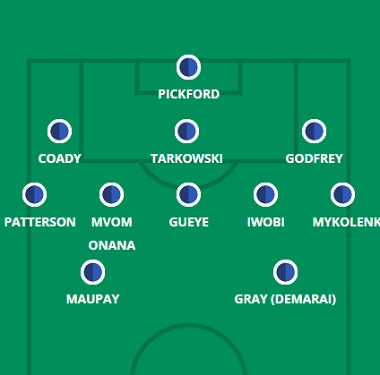
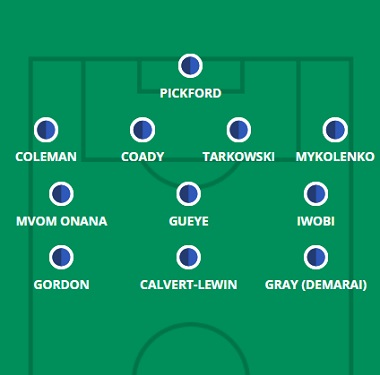
20-20

diff --git a/city.html b/city.html
@@ -63,15 +63,15 @@
     <hgroup>
         <h1> Provável Escalação</h1>
         <h2 class="direita"> por FabioVascão </h2>
-        <h3 class="direita"> Atualizado em 30/Novembro/2022 </h3>
+        <h3 class="direita"> Atualizado em 13/Janeiro/2023 </h3>
     </hgroup>
 
     <div class="selecao"><p><b><img src="images/logos/manchester-city.png" width="100rem" height="100rem"/> Manchester City</b></p></div>
        
     <div class="escalacao">
         <div class="topo">
-            <h2 class="titulo">Ultimas Notícias</h2> <h4><p> Ruben Dias (coxa) deve ficar de fora, enquanto Julian Alvarez não voltará a treinar até o Ano Novo, após os esforços no Catar. Apenas 65 horas separam em tempo integral a vitória sobre o Leeds e o pontapé inicial contra o Everton, para que possamos ter uma vaga de rotação sazonal no Etihad na véspera de Ano Novo. Phil Foden e João Cancelo voltaram ao jogo com aparições no segundo tempo em Elland Road, e podem voltar ao XI titular aqui; Guardiola disse no meio da semana que Jack Grealish e Riyad Mahrez foram parcialmente selecionados nos flancos (à frente de Foden) para controlar o ritmo do que poderia ser uma partida de basquete contra um time de Leeds de alto ritmo - uma tática que ele já usou antes em tais jogos, e Everton em casa não é um deles. Resta saber se Kyle Walker está pronto para o jogo depois de não ter saído do banco nem na liga nem na copa desde a Copa do Mundo, enquanto outro dos incansáveis incansáveis de Guardiola, Bernardo Silva, tem apenas alguns minutos para seu nome desde que Portugal saiu do Qatar 2022. John Stones pode passar para lateral-direito se Walker não estiver pronto para a ação doméstica desde o início, mas apenas para aumentar a imprevisibilidade absoluta na defesa (nem sequer mencionamos Manuel Akanji , Nathan Ake ou Aymeric Laporte ainda), o jovem Rico Lewis começou os últimos dois jogos na defesa e recebeu muitos elogios de seu técnico. Dado os tempos de retorno acentuados, não podemos nem dizer com certeza absoluta que Erling Haaland e/ou Kevin De Bruyne não conseguirão administrar minutos de alguma variedade, com Ederson sendo o único nome acertado para este.</p></h4><br>
-            <h4><strong>Dúvidas:</strong> Alvarez e Dias.</h4>
+            <h2 class="titulo">Ultimas Notícias</h2> <h4><p> John Stones não participará do derby de Manchester graças à lesão misteriosa que o manteve fora da derrota da EFL Cup para o Southampton, enquanto resta saber se a sugestão de Pep Guardiola de que "todo mundo está em forma" cobre Ruben Dias ( isquiotibiais) após sua recente ausência. A falta de Stones e (presumivelmente) Dias torna a imagem ao fundo um pouco menos nublada, embora ainda haja muito em aberto para interpretação. De alguma forma, chegamos a uma situação que, fora Sergio Gomez, o até então acertado João Cancelo parece ser o menos provável dos zagueiros disponíveis para começar em Old Trafford; A recente forma de Nathan Ake como lateral-esquerdo foi elogiada por Guardiola recentemente, enquanto Cancelo luta por minutos. O resto da composição defensiva pode depender se Guardiola quer o ritmo de Kyle Walker no lugar para lidar com a velocidade de Marcus Rashford et al e quão alta estima ele tem por Rico Lewis após recentes atuações louváveis. Os dois poderiam ser facilmente unidos na mesma escalação, no entanto, com Walker formando mais um 'três' ao lado de Manuel Akanji, Nathan Ake e / ou Aymeric Laporte e Lewis empurrado para um meio-campo dois ao lado de Rodri. Erling Haaland, Kevin De Bruyne e o já mencionado Rodri parecem tão perfeitos quanto possível na escalação do patrão do City, enquanto a lógica ditaria que Riyad Mahrez e Jack Grealish mantenham suas camisas abertas: eles não são apenas os homens 'em forma' pelos flancos, mas frequentemente aparecem a par quando Guardiola quer abrandar um jogo que ameaça tornar-se num jogo de basquetebol, algo que pode acontecer facilmente frente a um United que tem feito mais golos no contra-ataque do que qualquer outro time em 2022/23. Vale a pena notar, no entanto, que Phil Foden fez um hat-trick do flanco direito contra o City no outono e Bernardo Silva já foi usado nessa posição antes em partidas dessa magnitude.</p></h4><br>
+            <h4><strong>Dúvidas:</strong> Stones e Dias.</h4>
         </div>
         <aside>
             <figure>

diff --git a/chelsea.html b/chelsea.html
@@ -63,15 +63,15 @@
     <hgroup>
         <h1> Provável Escalação</h1>
         <h2 class="direita"> por FabioVascão </h2>
-        <h3 class="direita"> Atualizado em 30/Novembro/2022 </h3>
+        <h3 class="direita"> Atualizado em 13/Janeiro/2023 </h3>
     </hgroup>
 
     <div class="selecao"><p><b><img src="images/logos/chelsea.png" width="100rem" height="100rem"/> Chelsea</b></p></div>
        
     <div class="escalacao">
         <div class="topo">
-            <h2 class="titulo">Ultimas Notícias</h2> <h4><p> Reece James (joelho) juntou-se a Armando Broja (ACL), N'Golo Kante (coxa) e Wesley Fofana (joelho) na lista de lesões do Chelsea, enquanto permanece a dúvida sobre a disponibilidade de Ruben Loftus-Cheek (panturrilha) e Ben Chilwell ( isquiotibiais): embora a dupla tenha sido avistada no campo de treinamento no meio da semana, eles ficaram fora dos gramados por quase dois meses e não terão condições físicas para o jogo, mesmo que agora estejam livres de lesões. Dois jogadores que podem voltar à disputa são Hakim Ziyech e Mateo Kovacic, que receberam uma pausa pós-Copa do Mundo de Graham Potter após suas corridas para o play-off do terceiro lugar, mas que agora estão de volta à grama em Cobham. Todos nós sabemos o quanto Potter adora mexer com seu time: na última semana de três jogos na Premier League, apenas quatro jogadores de linha começaram cada partida. Mas os Blues enfrentaram uma reviravolta brutal de domingo-quarta-sábado nas semanas de jogo 11-13, e desta vez eles receberam uma programação muito mais generosa de terça-domingo-quinta-feira, com muito tempo de recuperação antes do confronto com o Manchester City. na Gameweek 19. As mudanças podem ser menos aqui do que após a vitória convincente sobre o Bournemouth, com jogadores como Pierre-Emerick Aubameyang, Conor Gallagher e Trevoh Chalobah esperando que não seja o caso. Potter será forçado a pelo menos uma alteração, sendo Cesar Azpilicueta o favorito para substituir o lesionado James na lateral-direita. </p></h4><br>
-            <h4><strong>Dúvidas:</strong> Broja, Chilwell, Fofana, James (Reece), Kanté e Loftus-Cheek. </h4>
+            <h2 class="titulo">Ultimas Notícias</h2> <h4><p> Denis Zakaria será avaliado após contrair um problema na quinta-feira e pode se juntar a uma lista de lesões que inclui Armando Broja (ACL), Christian Pulisic (joelho), Raheem Sterling (coxa), Edouard Mendy (dedo) e Wesley Fofana (joelho) . Reece James (joelho), Ruben Loftus-Cheek (panturrilha), N'Golo Kante (coxa) e Ben Chilwell (coxa) estão em vários estágios em seus retornos aos treinos, entretanto, mas não estiveram disponíveis para a derrota no Fulham , seria uma surpresa ver algum deles considerado para um jogo menos de 72 horas depois. Nunca chove, mas chove para Graham Potter, com o estreante João Felix também indisponível depois de ter sido expulso por jogo sujo grave em Craven Cottage. Carney Chukwuemeka e Conor Gallagher podem jogar contra o Palace com todos os problemas listados acima, enquanto Hakim Ziyech, Marc Cucurella e um Pierre-Emerick Aubameyang pouco usado (que Potter explicou ter se machucado recentemente) também podem retornar para o mínimo de duas vagas em disputa. A vaga de Trevoh Chalobah pode estar em risco após um desempenho vacilante contra o Fulham, com Cucurella e o novo garoto Benoit Badiashile como possíveis substitutos. </p></h4><br>
+            <h4><strong>Dúvidas:</strong> Broja, Chilwell, Fofana, James (Reece), Kanté, Loftus-Cheek, Mendy (Edouard), Pulisic, Sterling, Zakaria e João Felix. </h4>
         </div>
         <aside>
             <figure>

diff --git a/palace.html b/palace.html
@@ -63,15 +63,15 @@
     <hgroup>
         <h1> Provável Escalação</h1>
         <h2 class="direita"> por FabioVascão </h2>
-        <h3 class="direita"> Atualizado em 30/Novembro/2022 </h3>
+        <h3 class="direita"> Atualizado em 13/Janeiro/2023 </h3>
     </hgroup>
 
     <div class="selecao"><p><b><img src="images/logos/crystal-palace.png" width="100rem" height="100rem"/> Crystal Palace</b></p></div>
        
     <div class="escalacao">
         <div class="topo">
-            <h2 class="titulo">Ultimas Notícias</h2> <h4><p> Patrick Vieira deu seu briefing pré-Rodada 18 após a derrota no Boxing Day para o Fulham e ainda não ouvimos as citações embargadas daquela entrevista para nos atualizar sobre as últimas notícias da equipe. Sabemos que Tyrick Mitchell e James Tomkins estarão suspensos, enquanto James McArthur (virilha) e Nathan Ferguson (condição física) devem permanecer na lista de lesionados até janeiro. Jean-Phillipe Mateta também não fez parte do elenco da rodada contra os Cottagers, tendo também perdido os dois últimos amistosos do meio da temporada. Marc Guehi pelo menos retorna de sua própria suspensão de um jogo para este jogo e substituirá Tomkins como zagueiro, enquanto Joel Ward espera entrar no lugar de Mitchell como zagueiro - embora Jeffrey Schlupp, Jairo Riedewald e talvez Chris Richards sejam também possibilidades nessa posição. Os pouco usados Will Hughes e Luka Milivojevic esperam obter mais atenção após o show de terror no Boxing Day, enquanto Odsonne Edouard certamente volta ao pensamento depois que os Eagles não conseguiram registrar um único chute no alvo antes mesmo de sua redução a nove homens.</p></h4><br>
-            <h4><strong>Dúvidas:</strong> Ferguson (Nathan), Johnstone, McArthur, Mitchell e Tomkins.</h4>
+            <h2 class="titulo">Ultimas Notícias</h2> <h4><p> Não parece haver novas preocupações com lesões para o Crystal Palace, com Patrick Vieira dizendo que “todo mundo do último jogo treinou a semana toda”. Os Eagles sentirão novamente a falta de James McArthur (virilha) e Nathan Ferguson (condição física), ambos ausentes há muito tempo, mas Tyrick Mitchell está de volta após uma suspensão de três jogos após sua expulsão no Boxing Day e deve retornar ao time titular. XI, potencialmente substituindo Joel Ward na lateral-esquerda. Mais à frente, há muito mais debate a ser feito com Cheick Doucoure frequentemente exposto na sala de máquinas e a queda de forma de Eberechi Eze. Vieira ficou sem Odsonne Edouard ou Jean-Philippe Mateta em suas três primeiras escalações na Premier League desde o reinício, explicando mais tarde que a dupla não estava totalmente apta, mas Edouard voltou ao topo na FA Cup no fim de semana passado e marcou devidamente, para potencialmente aumentar suas chances de começar em Stamford Bridge. O enxerto de Jordan Ayew é normalmente chamado em jogos difíceis fora de casa (é uma viagem para o Chelsea?) E Wilfried Zaha geralmente é o mais acertado, enquanto Michael Olise parecia afiado em um papel de meio-campo de ataque central contra o Southampton na copa. Jefrrey Schlupp, Will Hughes, Eze e Edouard podem estar competindo por duas vagas, então, enquanto Vieira tenta impedir uma sequência de três derrotas em quatro jogos.</p></h4><br>
+            <h4><strong>Dúvidas:</strong> Ferguson (Nathan) e McArthur.</h4>
         </div>
         <aside>
             <figure>

diff --git a/united.html b/united.html
@@ -63,15 +63,15 @@
     <hgroup>
         <h1> Provável Escalação</h1>
         <h2 class="direita"> por FabioVascão </h2>
-        <h3 class="direita"> Atualizado em 30/Novembro/2022 </h3>
+        <h3 class="direita"> Atualizado em 13/Janeiro/2023 </h3>
     </hgroup>
 
     <div class="selecao"><p><b><img src="images/logos/manchester-united.png" width="100rem" height="100rem"/> Manchester United</b></p></div>
        
     <div class="escalacao">
         <div class="topo">
-            <h2 class="titulo">Ultimas Notícias</h2> <h4><p> A primeira parte da conferência de imprensa de Erik ten Hag continha muito pouco em termos de notícias da equipe, então há todas as chances de obtermos mais atualizações em outra seção embargada após o término do prazo da FPL. Além de Diogo Dalot (coxa) e Jadon Sancho (condição física), nenhum dos quais temos notícias recentes, as ausências notáveis contra o Forest foram Scott McTominay (doente), Victor Lindelof (doente) e Lisandro Martinez (pós-Copa do Mundo descanso). Martinez voltou ao treinamento do time principal em Carrington no dia seguinte, no entanto, pode estar disponível. Uma reviravolta do vencedor da Copa do Mundo provavelmente veria o meio-campo improvisado da semana 17, Luke Shaw, passar para a lateral-esquerda e Tyrell Malacia desistir, com Harry Maguire - ele mesmo voltando de uma doença - outra possibilidade de jogar na mão esquerda lado da defesa central se Martinez não estiver pronto. Alejandro Garnacho e Anthony Elanga são os reforços novatos mais avançados que provavelmente terão muito tempo de jogo como substitutos, pelo menos nas semanas 18 e 19, com as reviravoltas apertadas certamente levando à gestão de minutos para os regulares e a lesão -propenso Anthony Martial em particular. Fred e, se apto, McTominay também são opções na sala de máquinas, caso as pernas cansadas precisem ser controladas durante os jogos.</p></h4><br>
-            <h4><strong>Dúvidas:</strong> Dalot, Martínez, McTominay, Lindelof e Sancho.</h4>
+            <h2 class="titulo">Ultimas Notícias</h2> <h4><p> Diogo Dalot não está disponível para o clássico de Manchester no sábado, enquanto Anthony Martial será avaliado por uma pequena lesão na perna que afetou sua capacidade de treinar esta semana; se o francês não jogar, ele deve voltar para o Crystal Palace no meio da semana. Depois de semanas vendo Luke Shaw, Victor Lindelof e até mesmo Harry Maguire no meio-campo, ten Hag certamente vai querer sua dupla de primeira escolha, Lisandro Martinez e Raphael Varane, no lugar para a visita dos campeões em título. Há poucas dúvidas sobre a dupla de zagueiros agora que Dalot está fora, mas a ausência potencial de Martial deixa uma ou duas vagas em disputa mais adiante, dependendo de como dez Hag quer jogar. Um de Alejandro Garnacho ou Anthony Elanga no flanco, com Marcus Rashford no topo, seria a abordagem igual, mas o chefe do United poderia, alternativamente, fazer uma pequena mudança e trazer Fred para o meio-campo, empurrar Christian Eriksen ainda mais para cima e usar Bruno Fernandes em um papel um pouco mais amplo (como fez contra o Bournemouth). Jadon Sancho (condição física para o jogo) e Donny van de Beek (joelho) estão definitivamente de fora.</p></h4><br>
+            <h4><strong>Dúvidas:</strong> Dalot, Martial, Van de Beek e Sancho.</h4>
         </div>
         <aside>
             <figure>

diff --git a/everton.html b/everton.html
@@ -63,15 +63,15 @@
     <hgroup>
         <h1> Provável Escalação</h1>
         <h2 class="direita"> por FabioVascão </h2>
-        <h3 class="direita"> Atualizado em 30/Novembro/2022 </h3>
+        <h3 class="direita"> Atualizado em 13/Janeiro/2023 </h3>
     </hgroup>
 
     <div class="selecao"><p><b><img src="images/logos/everton.png" width="100rem" height="100rem"/> Everton</b></p></div>
        
     <div class="escalacao">
         <div class="topo">
-            <h2 class="titulo">Ultimas Notícias</h2> <h4><p> James Garner (costas) e Andros Townsend (joelho) definitivamente perderão a Rodada 18, enquanto Yerry Mina terá uma lesão no tendão de "baixo nível" avaliada depois que ele saiu contra o Wolves no Boxing Day. Frank Lampard também relatou que alguns pagantes estavam "ligeiramente indispostos" na imprensa de sexta-feira, embora não citasse nomes. Dominic Calvert-Lewin (joelho/ombro/coxa) está de volta aos treinos e disponível para seleção, entretanto, uma tarde passada perseguindo o City fora da bola não será ideal para o atacante propenso a lesões e um lugar no banco acena. Conor Coady volta direto para o XI inicial depois de ser inelegível para jogar na Rodada 17 e pode ser parte de uma defesa de cinco homens, em vez dos quatro zagueiros habituais, dada a magnitude do confronto. Ben Godfrey, Michael Keane, Mina (se adequado) e Mason Holgate são opções adicionais no meio-campo, se necessário, enquanto vimos Vitalii Mykolenko e Seamus Coleman implantados mais centralmente sob Lampard no passado. Anthony Gordon e Dwight McNeil podem desistir se virmos uma mudança de formação, já que foi Demarai Gray quem se juntou a Neal Maupay no topo quando Lampard usou esta formação pela última vez no Spurs na Rodada 11.</p></h4><br>
-            <h4><strong>Dúvidas:</strong> Garner, Mina e Townsend. </h4>
+            <h2 class="titulo">Ultimas Notícias</h2> <h4><p> James Garner (costas), Andros Townsend (joelho), Michael Keane (joelho) e Nathan Patterson (joelho) estão todos na lista de contusões antes do jogo contra o Southampton, mas Frank Lampard informou na sexta-feira que Dominic Calvert-Lewin superou o período de Natal ileso. Em outra boa notícia, Alex Iwobi (tornozelo) - afastado por três semanas na última sexta-feira - pode estar de volta já neste fim de semana, com avaliação para vir em treinamento devido a uma lesão que foi muito menos grave do que se temia. Desempenhos dignos de crédito em um sistema lateral contra os dois clubes de Manchester nas últimas semanas certamente virão à mente de Lampard, mas com o Saints na parte inferior da tabela visitando Goodison Park, haverá a tentação de ir com um conjunto mais ofensivo -up para este ponteiro de seis. Pode ser uma escolha direta entre Ben Godfrey como terceiro zagueiro ou Dwight McNeil/Anthony Gordon como ala extra, dependendo se é um 5-3-2 ou 4-3-3, com Demarai Gray operando como atacante de apoio para Calvert-Lewin se for o primeiro. Abdoulaye Doucoure e Tom Davies são opções de meio-campo se Iwobi não fizer a recuperação de Lazarus que Lampard espera que ele faça.</p></h4><br>
+            <h4><strong>Dúvidas:</strong> Garner, Patterson, Iwobi, Keane e Townsend. </h4>
         </div>
         <aside>
             <figure>

diff --git a/wolves.html b/wolves.html
@@ -63,15 +63,15 @@
     <hgroup>
         <h1> Provável Escalação</h1>
         <h2 class="direita"> por FabioVascão </h2>
-        <h3 class="direita"> Atualizado em 30/Novembro/2022 </h3>
+        <h3 class="direita"> Atualizado em 13/Janeiro/2023 </h3>
     </hgroup>
 
     <div class="selecao"><p><b><img src="images/logos/wolverhampton.png" width="100rem" height="100rem"/> Wolverhampton</b></p></div>
        
     <div class="escalacao">
         <div class="topo">
-            <h2 class="titulo">Ultimas Notícias</h2> <h4><p> Ausências de longa data Pedro Neto (tornozelo), Chiquinho (joelho) e Sasa Kalajdzic (joelho) permanecem de fora para o primeiro jogo em casa do novo técnico Julen Lopetegui, mas há boas notícias antes da visita do Manchester United: o ala Daniel Podence foi declarado apto após sair de lesão no Boxing Day, enquanto Boubacar Traore (virilha) e Jonny (virilha) também estão disponíveis. O versátil Jonny pode jogar em qualquer um dos flancos e seu retorno adicionará mais incerteza ao lugar de Hugo Bueno, com Rayan Ait-Nouri saindo do banco para marcar dois gols consecutivos nos acréscimos no campeonato e na copa. No entanto, é provavelmente o lugar fora de forma de Nelson Semedo que está mais em risco quando Jonny está em plena forma, com o lateral-direito a ser titular apenas por falta de opções neste momento. Ait-Nouri, Adama Traore e Matheus Nunes estarão todos empenhados em começar após suas apresentações positivas em Goodison Park, enquanto há uma chance de também vermos uma mudança para um cinco de volta e uma promoção para o XI inicial para Toti Gomes. O atacante Diego Costa, de 34 anos, jogou todos os 90 minutos da vitória no Everton, então há uma chance de Lopetegui recorrer a Raul Jimenez, Hwang Hee-chan ou Gonçalo Guedes para liderar a linha.</p></h4><br>
-            <h4><strong>Dúvidas:</strong>Kalajdzic, Neto (Pedro), Chiquinho, Jonny e Traoré (Boubacar).</h4>
+            <h2 class="titulo">Ultimas Notícias</h2> <h4><p> Julen Lopetegui não poderá contar com Boubacar Traore (coxa), Pedro Neto (tornozelo), Chiquinho (joelho) e Sasa Kalajdzic (joelho) na jornada 20, todos com lesões de longa duração. Diego Costa, por sua vez, será avaliado depois de ter perdido as duas últimas partidas do Wolves com um pequeno problema. Caso não possa ser titular, a nova contratação Matheus Cunha pode substituí-lo, tendo saído do banco em cada um dos últimos três jogos, embora Raul Jimenez possa ser o preferido após o empate no City Ground no meio da semana. Hugo Bueno, Ruben Neves e Daniel Podence surgiram como reservas nessa partida e vão pressionar por reconvocações, com Jonny e Rayan Ait-Nouri entre os nomes potencialmente desistentes se Lopetegui voltar ao sistema 4-3-3 que ele tem favorito na liga até agora; houve um flerte com um sistema lateral no meio da semana.</p></h4><br>
+            <h4><strong>Dúvidas:</strong>Kalajdzic, Neto (Pedro), Chiquinho, Diego Costa e Traoré (Boubacar).</h4>
         </div>
         <aside>
             <figure>

diff --git a/westham.html b/westham.html
@@ -63,15 +63,15 @@
     <hgroup>
         <h1> Provável Escalação</h1>
         <h2 class="direita"> por FabioVascão </h2>
-        <h3 class="direita"> Atualizado em 30/Novembro/2022 </h3>
+        <h3 class="direita"> Atualizado em 13/Janeiro/2023 </h3>
     </hgroup>
 
     <div class="selecao"><p><b><img src="images/logos/west-ham.png" width="100rem" height="100rem"/> West Ham</b></p></div>
        
     <div class="escalacao">
         <div class="topo">
-            <h2 class="titulo">Ultimas Notícias</h2> <h4><p> Michail Antonio se livrou de uma distensão na panturrilha para começar no Arsenal na 17ª rodada, enquanto o também atacante Gianluca Scamacca (tornozelo) pode retornar na noite de sexta-feira para desafiar seu rival de posição. Maxwel Cornet (panturrilha) e Kurt Zouma (joelho) devem permanecer de fora, enquanto David Moyes disse que não acredita que o zagueiro Nayef Aguerd (doença) esteja "ainda pronto" após seu retorno da Copa do Mundo. Como acontece com a maioria das equipes, esse período agitado de futebol festivo pode trazer uma leve rotação. Ben Johnson, Emerson Palmieri, Flynn Downes, Pablo Fornals e Manuel Lanzini foram todos substitutos na derrota para o Arsenal, mas Moyes tende a ser um dos técnicos mais teimosos quando se trata de seleções de times (apenas Fornals conseguiu nos Emirados) , e ele raramente fica louco com as alterações causadas pelo cansaço. Os Hammers também receberam uma das agendas mais generosas, com intervalos de quatro e cinco dias, respectivamente, entre os jogos da Rodada 17-19.</p></h4><br>
-            <h4><strong>Dúvidas:</strong>Aguerd, Cornet, Scamacca e Zouma.</h4>
+            <h2 class="titulo">Ultimas Notícias</h2> <h4><p> Não houve atualizações de notícias da equipe relatadas por David Moyes até agora, embora possa ser que seu resumo de lesões tenha ocorrido em uma seção embargada de seu presser - e não obteremos isso até depois do prazo FPL. Kurt Zouma (joelho) e Maxwel Cornet (panturrilha) estão ausentes há mais tempo, enquanto Alphonse Areola (quadril), Manuel Lanzini (virilha) e Gianluca Scamacca (joelho) perderam a vitória da FA Cup sobre o Brentford com problemas aparentemente menores. O envolvimento de Vladimir Coufal está no ar depois que ele contraiu uma lesão no joelho em Elland Road, com Thilo Kehrer ou Ben Johnson em espera para intervir caso ele não consiga. Nayef Aguerd fez seu tão esperado primeiro início na Premier League na Gameweek 19 e deve continuar aqui ao lado de Craig Dawson, apesar de este último estar vinculado a uma transferência para o adversário deste fim de semana, Wolves. Mais à frente, Declan Rice, Tomas Soucek, Lucas Paquetá e Jarrod Bowen devem continuar no XI após estrear na FA Cup, enquanto Said Benrahma pressiona pela reconvocação após sair do banco para fazer o gol da vitória naquela partida.</p></h4><br>
+            <h4><strong>Dúvidas:</strong>Areola, Cornet, Coufal, Lanzini, Scamacca e Zouma.</h4>
         </div>
         <aside>
             <figure>

diff --git a/bourne.html b/bourne.html
@@ -63,15 +63,15 @@
     <hgroup>
         <h1> Provável Escalação</h1>
         <h2 class="direita"> por FabioVascão </h2>
-        <h3 class="direita"> Atualizado em 30/Novembro/2022 </h3>
+        <h3 class="direita"> Atualizado em 13/Janeiro/2023 </h3>
     </hgroup>
 
     <div class="selecao"><p><b><img src="images/logos/bourne.png" width="100rem" height="100rem"/> Bournemouth</b></p></div>
        
     <div class="escalacao">
         <div class="topo">
-            <h2 class="titulo">Ultimas Notícias</h2> <h4><p> O assistente do Bournemouth, Tommy Elphick, disse que os Cherries estavam "como estávamos" quando se tratava de notícias do time, então não veremos Murara Neto (coxa) e David Brooks (coxa) contra o Palace. Se esse comentário também se estende a Marcus Tavernier (coxa), Chris Mepham (doença), Ryan Fredericks ("pequeno problema") e Junior Stanislas ("pequeno problema") é outra questão, com Elphick dizendo que o clube faria um "número de ligações atrasadas" antes do jogo da véspera de Ano Novo. Um vírus está se espalhando pelo campo de Bournemouth no momento, com o chefe Gary O'Neil afetado e incapaz de levar seu presser pré-jogo, então há mais do que um pouco de incerteza sobre quem poderá entrar em campo contra Patrick tropas de Vieira. Taticamente, com o Palace no meio da tabela como adversário, O'Neil pode optar por uma formação mais ousada do que o 5-3-2 que usou no Chelsea, talvez restabelecendo o 4-4-2 das partidas anteriores. Ryan Christie e Jaidon Anthony esperam uma olhada se isso acontecer, com Jack Stacey o provável peso-pesado como o defensor excedente.</p></h4><br>
-            <h4><strong>Dúvidas:</strong> Brooks, Fredericks, Mepham, Neto (Murara), Stanislas e Tavernier.</h4>
+            <h2 class="titulo">Ultimas Notícias</h2> <h4><p> Gary O'Neil deu algumas notícias vagas da equipe em sua prensa pré-jogo, dizendo que os Cherries farão "algumas ligações tardias". Adam Smith está definitivamente fora por suspensão, enquanto Murara Neto (coxa), David Brooks (coxa), Marcus Tavernier (coxa), Ryan Fredericks (“pequeno problema”) e Junior Stanislas (“pequeno problema”) foram afastados recentemente e pode estar entre os nomes aos quais O'Neil aludiu acima. Os Cherries estão em má forma, sem um sistema lateral nem um 4-4-2/4-4-1-1 impedindo a queda pós-Copa do Mundo. Jack Stacey deve entrar no lugar de Smith em qualquer sistema preferido, e não seria uma surpresa se O'Neil optasse pelo máximo de altura possível (um zagueiro extra, Philip Billing, Kieffer Moore etc.) força nas cobranças de falta e escanteios. Ryan Christie e Jaidon Anthony provavelmente seriam os homens sacrificados se vermos uma mudança de sistema, tendo operado nas laterais em um 4-4-2.</p></h4><br>
+            <h4><strong>Dúvidas:</strong> Brooks, Fredericks, Neto (Murara), Stanislas, Smith e Tavernier.</h4>
         </div>
         <aside>
             <figure>
